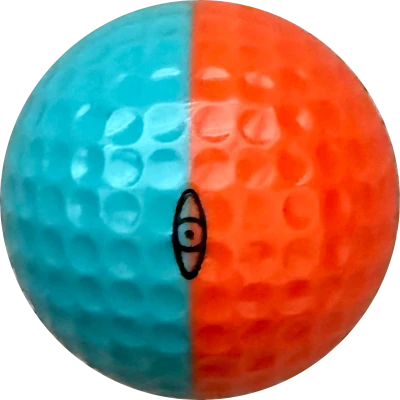
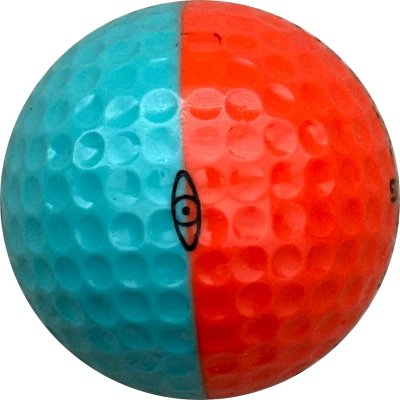
updates

diff --git a/colors.html b/colors.html
@@ -176,7 +176,7 @@
             <tr data-rarity="9"><td>61</td><td class="photo-cell"></td><td>Black &amp; Pink Pale</td><td><span class="rarity-badge rarity-9">9</span></td><td class="value-cell">$700-950</td></tr>
             <tr data-rarity="9"><td>62</td><td class="photo-cell"></td><td>Black &amp; Purple Plum</td><td><span class="rarity-badge rarity-9">9</span></td><td class="value-cell">$900-1000</td></tr>
             <tr data-rarity="6"><td>63</td><td class="photo-cell"></td><td>Black &amp; Red</td><td><span class="rarity-badge rarity-6">6</span></td><td class="value-cell">$104-224</td></tr>
-            <tr data-rarity="7"><td>64</td><td class="photo-cell"></td><td>Black &amp; Silver</td><td><span class="rarity-badge rarity-7">7</span></td><td class="value-cell">$150-285</td></tr>
+            <tr data-rarity="7"><td>64</td><td class="photo-cell"></td><td>Black &amp; Silver</td><td><span class="rarity-badge rarity-7">7</span></td><td class="value-cell">$150-200</td></tr>
             <tr data-rarity="6"><td>65</td><td class="photo-cell"></td><td>Black &amp; Yellow</td><td><span class="rarity-badge rarity-6">6</span></td><td class="value-cell">$110-130</td></tr>
             <tr data-rarity="10"><td>66</td><td class="photo-cell"></td><td>Black &amp; Yellow Mustard</td><td><span class="rarity-badge rarity-10">10</span></td><td class="value-cell">$1300-1500</td></tr>
             <tr data-rarity="9"><td>67</td><td class="photo-cell"></td><td>Blue Baby &amp; Pink</td><td><span class="rarity-badge rarity-9">9</span></td><td class="value-cell">$400-650</td></tr>
@@ -712,6 +712,7 @@
         '41': 'aqua-greendark-41',
         '42': 'aqua-lavender-42',
         '43': 'aqua-orange-43',
+        '43B': 'aqua-orangemedium-43B',
         '44': 'aqua-orangepale-44',
         '45': 'aquadark-pinkbaby-45',
         '45F': 'aqua-pinkbaby-45F',
